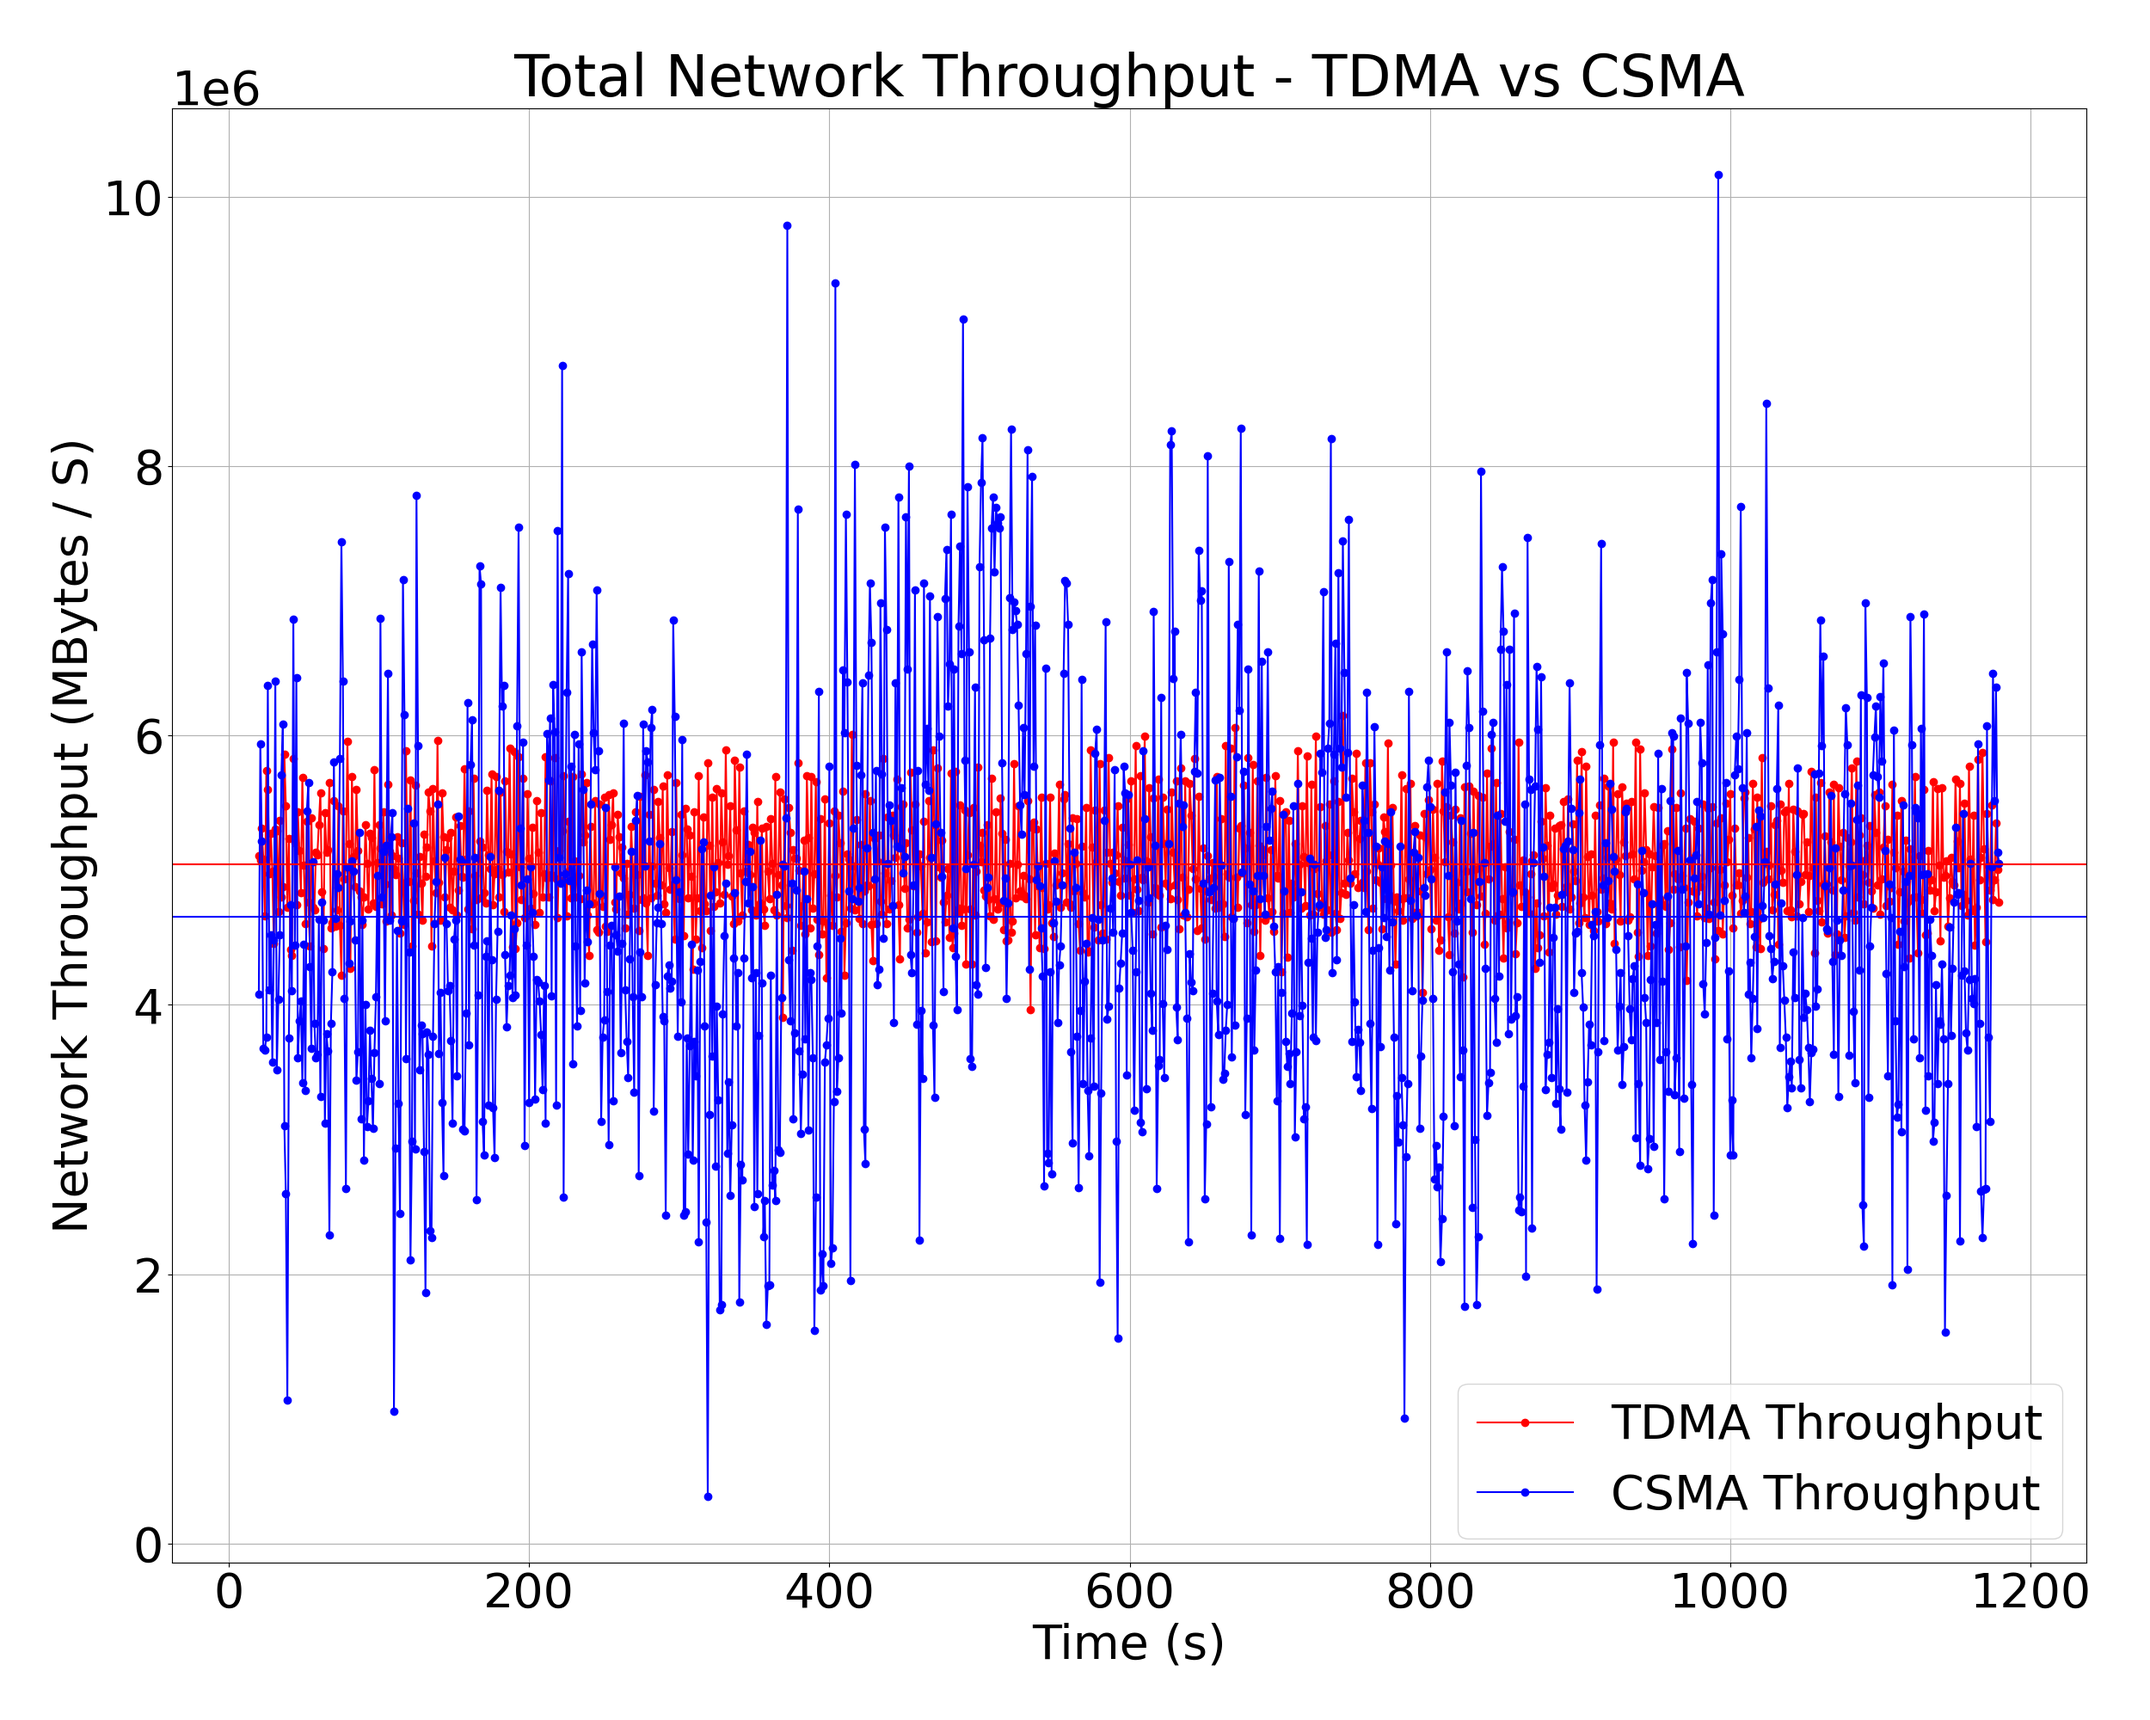
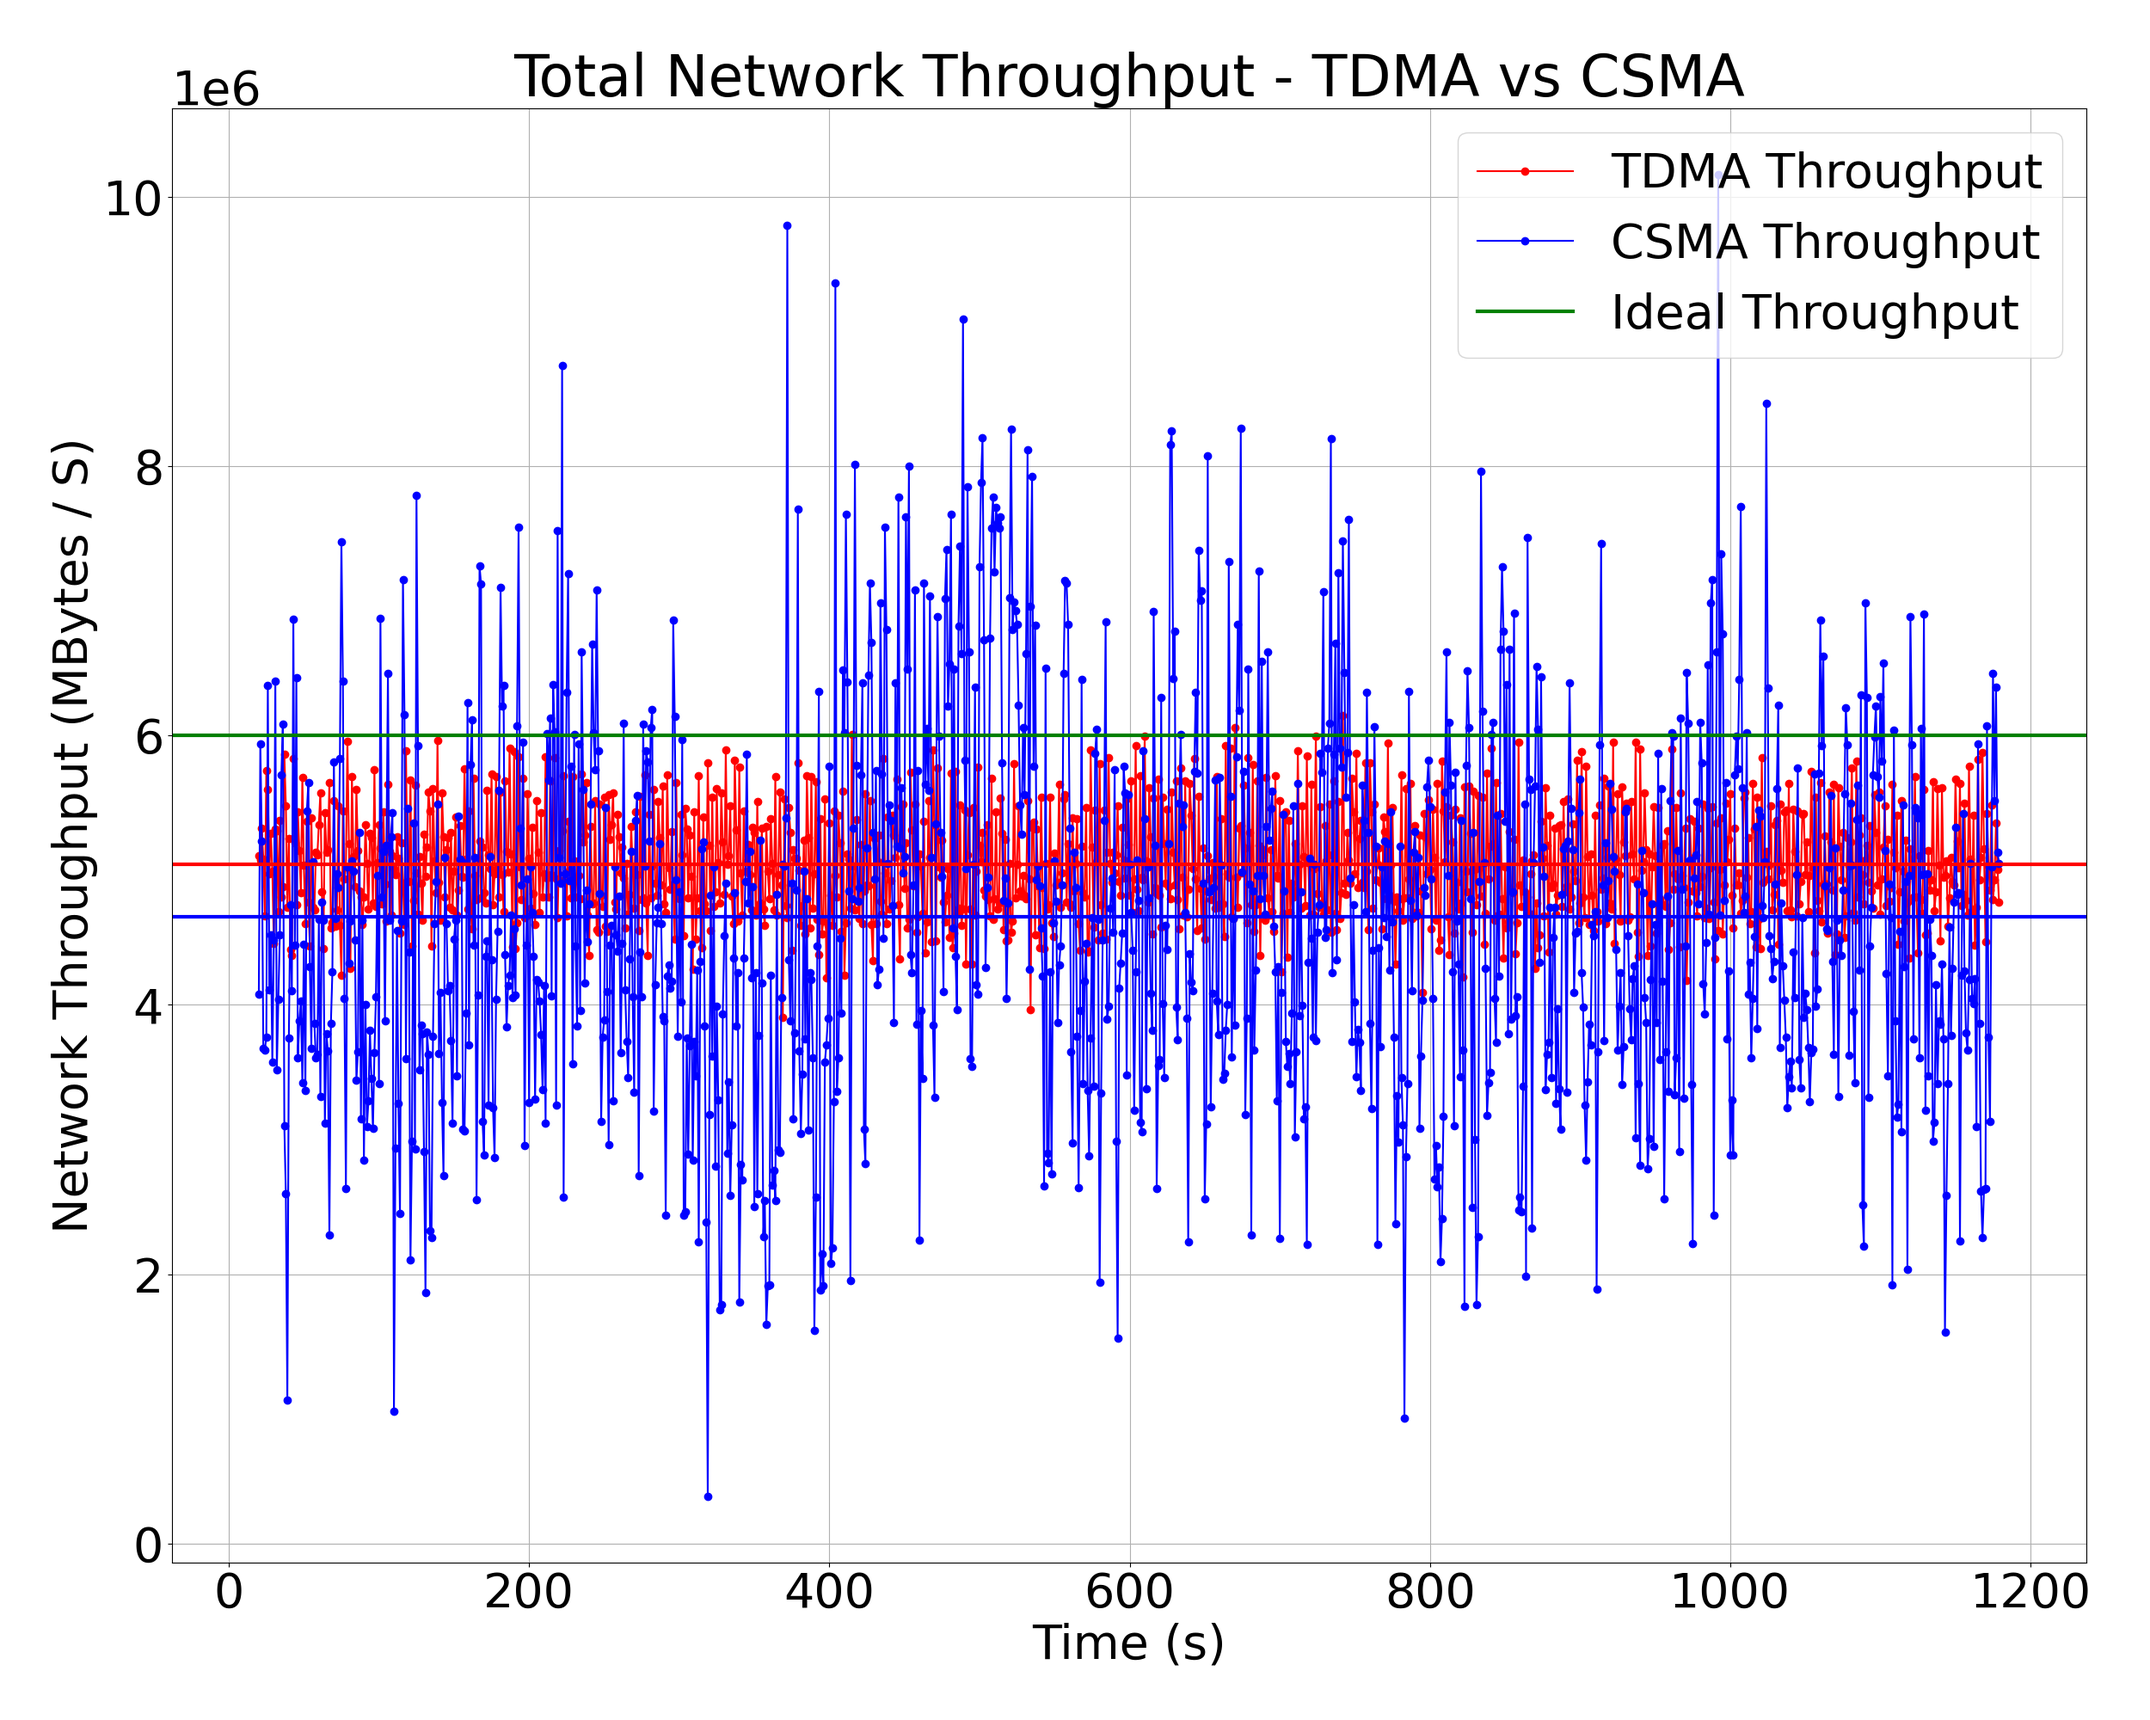
New charts

Changed region(s): [[0.7488, 0.093, 0.9672, 0.217], [0.7488, 0.806, 0.9672, 0.899]]

diff --git a/docs/logs/processTrace.py b/docs/logs/processTrace.py
@@ -4,9 +4,10 @@ import math
 import matplotlib.pyplot as plt
 import os
 
-TEST_NAME = "tree-topology"
+TEST_NAME = "star-topology"
 TEST_TYPE = "tdma"
 TRACE_NAME = "trace-6nodes.pcapng.gz"
+TARGET_AVG = 6875000
 
 DRONE_1_ID = 0
 DRONE_2_ID = 1
@@ -495,8 +496,9 @@ def compare_throughput(tdma_path, csma_path):
     plt.plot(tdma_x, tdma_y, marker='o', linestyle='-', color="red", label = "TDMA Throughput")
     plt.plot(csma_x, csma_y, marker='o', linestyle='-', color="blue", label = "CSMA Throughput")
 
-    plt.axhline(y=csma_avg, color='blue', linestyle='-')
-    plt.axhline(y=tdma_avg, color='red', linestyle='-')
+    plt.axhline(y=csma_avg, color='blue', linestyle='-', linewidth=3.0)
+    plt.axhline(y=tdma_avg, color='red', linestyle='-', linewidth=3.0)
+    plt.axhline(y=TARGET_AVG, color='green', linestyle='-', linewidth=3.0, label = "Ideal Throughput")
 
     plt.legend()
     plt.grid()
@@ -512,7 +514,7 @@ if __name__ == '__main__':
 
     #process_pcap('./' + TEST_NAME +'/' + TEST_TYPE + '/' + TRACE_NAME)
 
-    compute_position('./' + TEST_NAME +'/' + TEST_TYPE + '/' + TRACE_NAME)
+    #compute_position('./' + TEST_NAME +'/' + TEST_TYPE + '/' + TRACE_NAME)
 
-    #compare_throughput('./' + TEST_NAME +'/tdma' , './' + TEST_NAME +'/csma')
+    compare_throughput('./' + TEST_NAME +'/tdma' , './' + TEST_NAME +'/csma')
 
